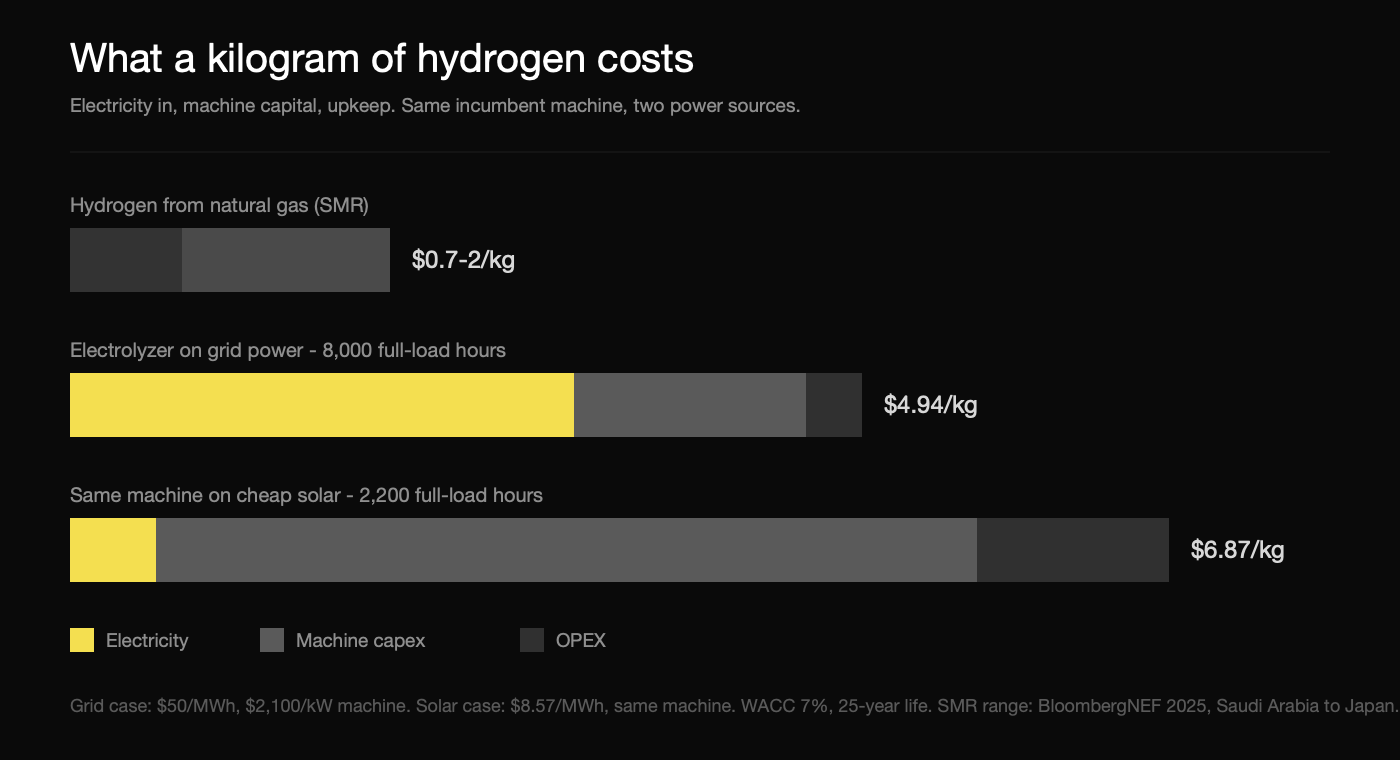
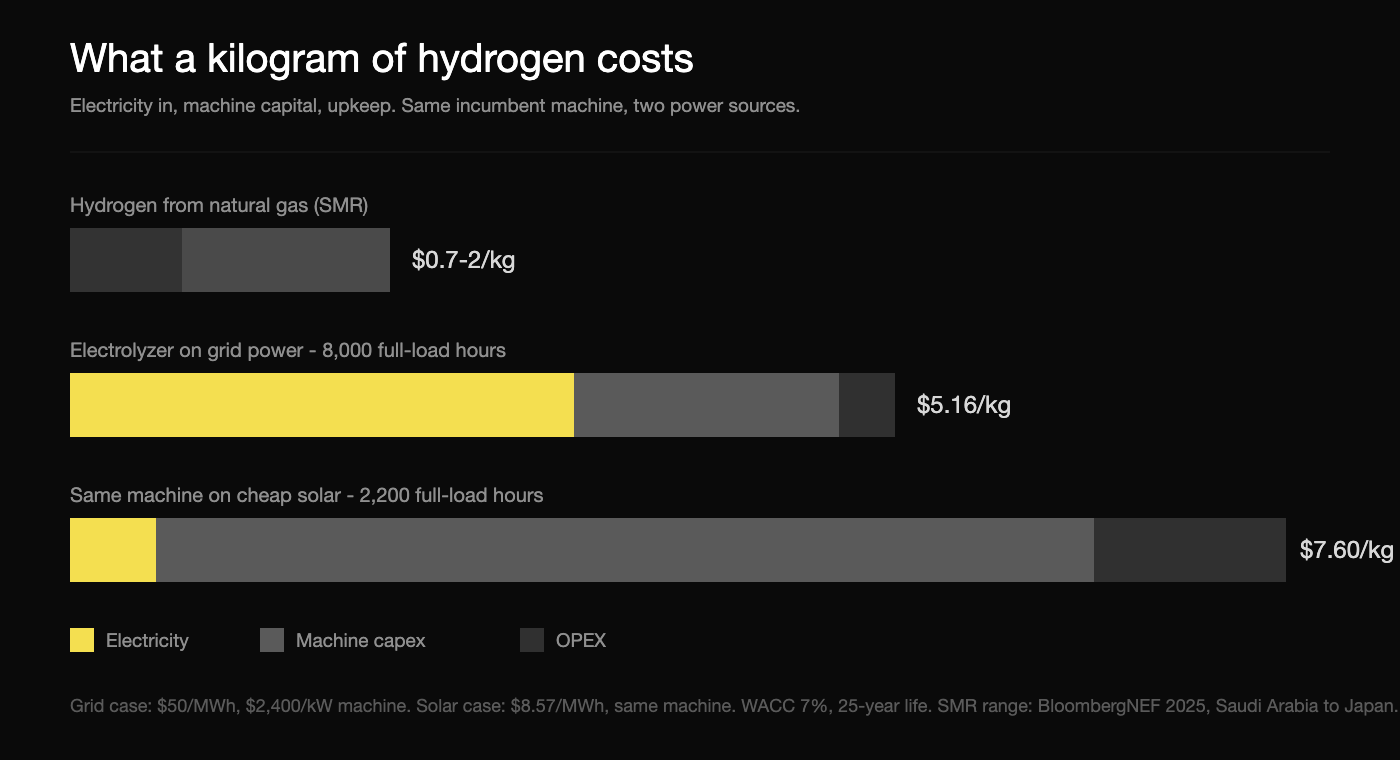
Add full names and titles to team section

diff --git a/investment-memo.html b/investment-memo.html
@@ -165,11 +165,11 @@ table.hires td:first-child{color:var(--tx-mut);}
 <div class="s-head"><h2>Team.</h2></div>
 <p>Six builders, obsessive since childhood, who left every institution that tried to slow them down.</p>
 <ul class="beliefs">
-<li><strong>Nils — co-founder, CEO.</strong> Building electrolyzers since age 12. Built his own lab at 16 in his grandparents' henhouse because the university wouldn't let him in; got in at 17, quit after two weeks because the supervisor was too slow. Seven years of electrolysis. He's 19.</li>
-<li><strong>Oliver — co-founder.</strong> Built a robot at 12 doing what Boston Dynamics does, on a tenth of the budget. Ran KTH at 200% pace, demanded 400%, was refused, walked — then hit year-five med-school research level in six months and walked from that too.</li>
-<li><strong>Jacob — co-founder.</strong> Scheming with Nils since middle school — they wrote a 200-page hydrogen manifesto before either could drive. Has since started companies from consumer products to nuclear.</li>
-<li><strong>Mohammad.</strong> Programming at 8 because no game was good enough, so he built his own. Two master's degrees by 22, a machine-learning PhD by 25, and a healthy hatred of academia.</li>
-<li><strong>William.</strong> Spent his life disassembling cars and rebuilding them. Makes the gap between idea and physical prototype disappear.</li>
+<li><strong>Nils Samrud — co-founder, CEO.</strong> Building electrolyzers since age 12. Built his own lab at 16 in his grandparents' henhouse because the university wouldn't let him in; got in at 17, quit after two weeks because the supervisor was too slow. Seven years of electrolysis. He's 19.</li>
+<li><strong>Oliver Midbrink — co-founder, CTO.</strong> Built a robot at 12 doing what Boston Dynamics does, on a tenth of the budget. Ran KTH at 200% pace, demanded 400%, was refused, walked — then hit year-five med-school research level in six months and walked from that too.</li>
+<li><strong>Jacob Jackson — co-founder, COO.</strong> Scheming with Nils since middle school — they wrote a 200-page hydrogen manifesto before either could drive. Has since started companies from consumer products to nuclear.</li>
+<li><strong>Mohammad Nemer — founding engineer.</strong> Programming at 8 because no game was good enough, so he built his own. Two master's degrees by 22, a machine-learning PhD by 25, and a healthy hatred of academia.</li>
+<li><strong>William Wahlberg — founding engineer.</strong> Spent his life disassembling cars and rebuilding them. Makes the gap between idea and physical prototype disappear.</li>
 </ul>
 <p>This team walked 80% of the world's operating electrolyzer sites, sat the incumbent CEOs around one dinner table in Rotterdam, confirmed first-hand that nobody in this industry is trying to win — then built, in six weeks, the machine the industry said needed a decade.</p>
 </section>